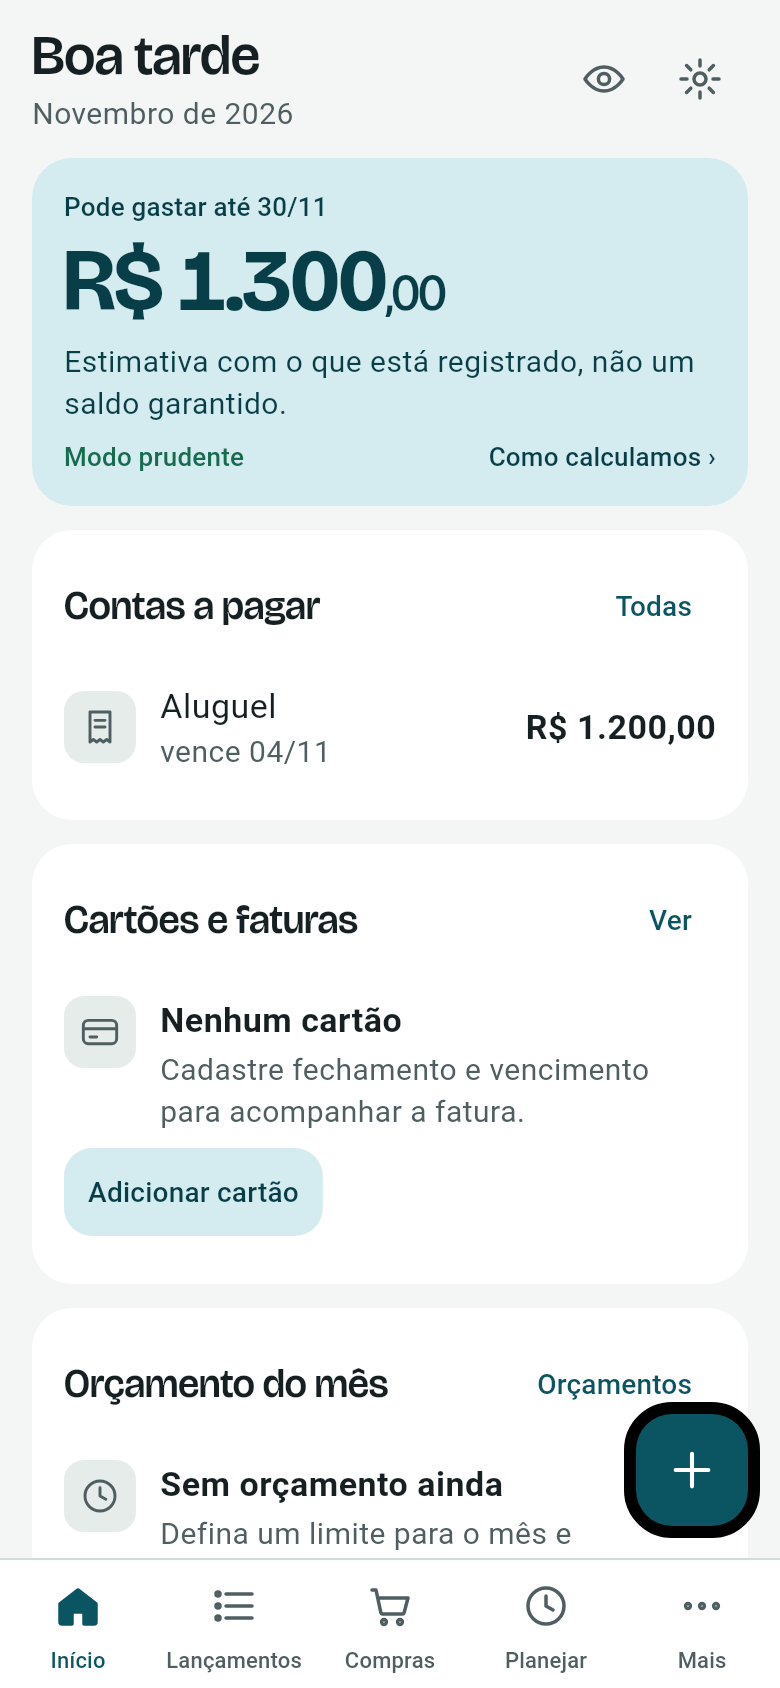
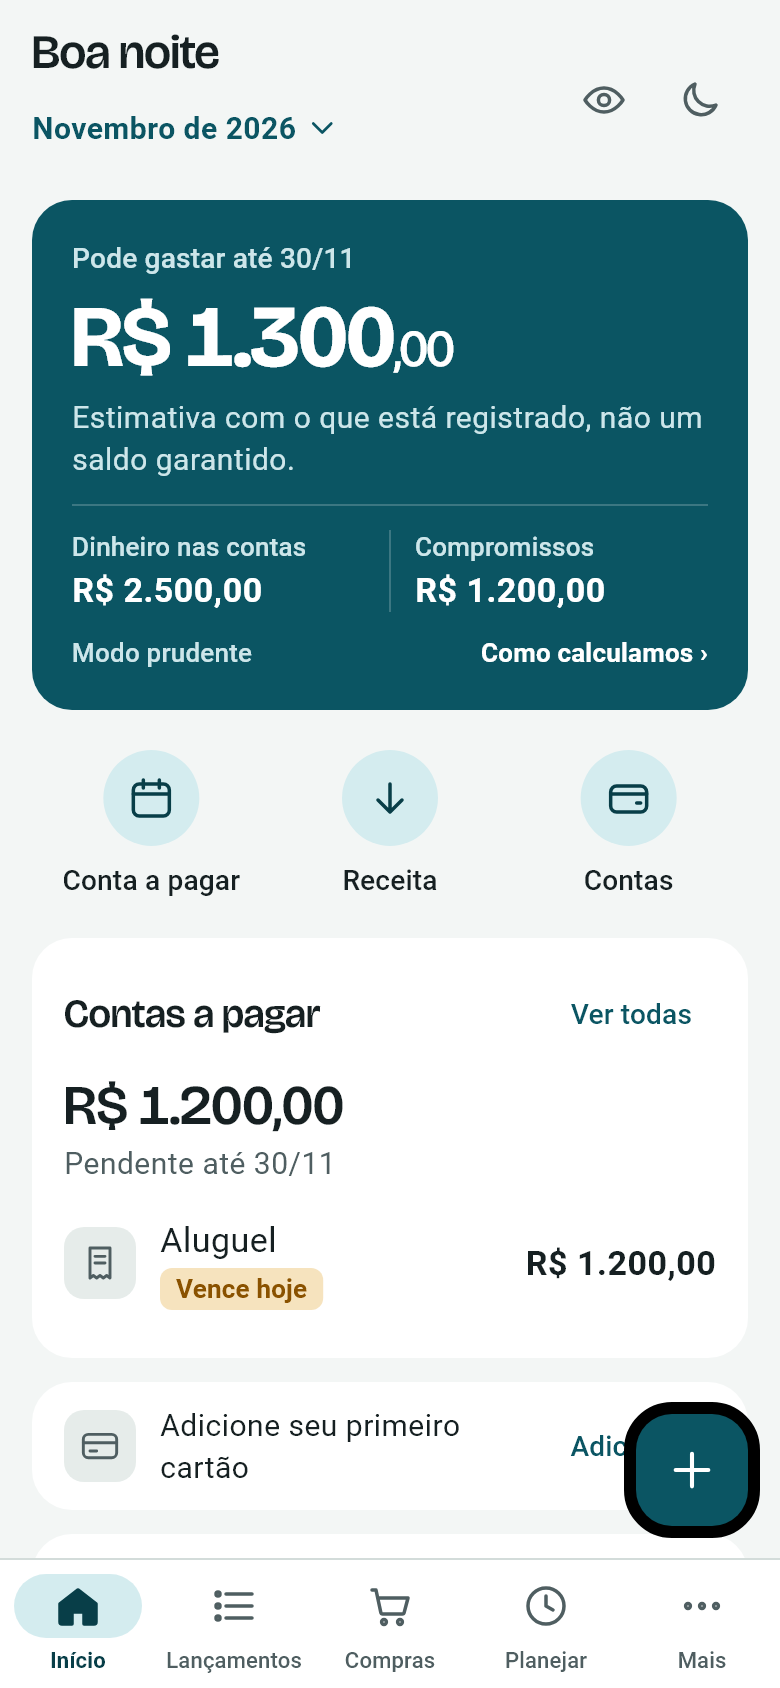
docs: homologação, tela inicial redesenhada e estado real do projeto
- 10-HOMOLOGACAO.md: roteiro no emulador, achados 1 a 11 e onde foram
  corrigidos, validação das notificações, itens não cobertos.
- DESIGN.md e 04-UI_DESIGN_SYSTEM.md: painel-resumo, ações rápidas,
  linha vazia, etiqueta de vencimento e barra inferior.
- 09-TESTES.md: 349 aprovados, 0 ignorados, 0 falhas.
- CHECKPOINT.md: homologação, correções, redesenho e pendências reais.
- Capturas regeneradas a partir da árvore de widgets real.

diff --git a/DESIGN.md b/DESIGN.md
@@ -173,7 +173,7 @@ Uma paleta de água e névoa ao amanhecer: fundo frio e claro, tinta grafite esv
 
 ### Primary
 - **Sereno** (#0B5563): única cor de ação. Botões primários, links, ícone ativo na barra de abas, preenchimento "dentro do ritmo", foco de teclado. 7,7:1 sobre Névoa. No tema escuro vira **Noite-sereno** (#6FC8D6), 9,6:1 sobre Noite.
-- **Sereno-claro** (#D4ECEF): container do primário: chips selecionados, botão secundário, fundo do cartão "pode gastar" quando positivo. Texto sobre ele sempre **Sereno-profundo** (#083E48), 9,5:1.
+- **Sereno-claro** (#D4ECEF): container do primário: chips selecionados, botão secundário, fundo dos ícones das ações rápidas e da aba ativa. Texto sobre ele sempre **Sereno-profundo** (#083E48), 9,5:1.
 
 ### Secondary
 - **Aurora** (#C0703E / escuro #F0B48A): a luz baixa do amanhecer. Só no símbolo, na marca de hoje e em ícones de destaque ≥ 24 px; nunca como texto (3,4:1 sobre Névoa é suficiente apenas para elementos gráficos).
@@ -259,9 +259,21 @@ Cantos arredondados contínuos: 6 px em chips pequenos e barras, 10 px em campos
 - **Money input:** teclado numérico, máscara pt-BR, centavos sempre visíveis, prefixo "R$" em Cinza-mar.
 
 ### Navigation
-- **Tab bar:** Branco, 56 px + safe area, 5 itens, ícone 24 px e rótulo 11 px; ativo Sereno com ícone preenchido.
+- **Tab bar:** Branco, 64 px + safe area, 5 itens, ícone 24 px e rótulo 11 px; a aba ativa ganha uma pílula Sereno-claro atrás do ícone, com ícone e rótulo em Sereno-profundo. Os rótulos acompanham a fonte do sistema só até o ponto em que "Lançamentos" ainda cabe sem quebrar.
 - **Headers:** iOS large title colapsável; Android top app bar Material 3. Voltar sempre do sistema.
 - **Sheets:** bottom sheet para tarefas curtas; tela cheia para fluxos longos (sessão de compras com câmera).
+
+### Painel-resumo "pode gastar" (tela inicial)
+Superfície sólida em **Sereno** (#0B5563; no escuro **Noite-sereno-container** #123F48), raio 20 px, texto Branco e texto de apoio tingido da própria cor (#CDE6EA), nunca cinza. Ordem: rótulo "Pode gastar até dd/mm", valor em Money Hero, uma linha de explicação, um fio e dois valores que explicam o número (**Dinheiro nas contas** e **Compromissos**), tirados das mesmas linhas da tela "Como calculamos"; rodapé com o modo (prudente/otimista) e "Como calculamos ›". O painel inteiro é tocável. Quando o valor é negativo o painel vira Coral-claro com texto Coral. Sem conta cadastrada o valor é desconhecido: o painel mostra "Configure seu saldo", uma frase e o botão "Adicionar conta", nunca R$ 0,00. Valores longos e fonte grande reduzem a escala em vez de cortar; em tela estreita ou fonte acima de 140% os dois valores empilham.
+
+### Ações rápidas (tela inicial)
+Até três atalhos logo abaixo do painel: ícone de 24 px em círculo Sereno-claro de 48 px e rótulo de até duas linhas. Complementam o botão flutuante "+" (que adiciona um lançamento) em vez de repeti-lo: "Conta a pagar", "Transferir" (ou "Receita" enquanto houver menos de duas contas) e "Contas".
+
+### Linha vazia
+Seção sem dados na tela inicial é uma linha só: ícone em quadro Bruma, o que falta ("Nenhuma conta prevista", "Adicione seu primeiro cartão") e uma ação ghost à direita. Evita empilhar cartões altos de instrução no primeiro acesso.
+
+### Vencimento
+Em listas de contas a pagar, "Atrasada desde dd/mm" (Coral sobre Coral-claro) e "Vence hoje"/"Vence amanhã" (Âmbar sobre Âmbar-claro) aparecem como etiqueta de raio 6 px; os demais vencimentos são texto Cinza-mar ("Vence em 3 dias", "Vence dd/mm"). Cor e texto sempre juntos.
 
 ### Barra de ritmo (componente-assinatura)
 Trilho Bruma de 12 px com raio 6 px; preenchimento Sereno (Coral ao ultrapassar 100%); **marca de hoje** em Aurora na posição esperada (dias decorridos ÷ dias do período, ou itens comprados ÷ itens da lista no carrinho). Legenda de três estados, sempre com ícone e texto: **sereno** (preenchimento ≤ marca), **atenção** (até 10% acima), **agitado** (acima disso). Usado em: orçamento por categoria, orçamento do mês, limite do cartão, meta/reserva, orçamento do carrinho.
@@ -272,7 +284,7 @@ Trilho Bruma de 12 px com raio 6 px; preenchimento Sereno (Coral ao ultrapassar 
 ## Do's and Don'ts
 
 ### Do:
-- **Do** colocar um único número-herói por tela, em Money Hero, com uma linha de explicação e um botão ghost "Como calculamos".
+- **Do** colocar um único número-herói por tela, em Money Hero, com uma linha de explicação e o acesso a "Como calculamos". Na tela inicial ele vive no painel-resumo em Sereno.
 - **Do** usar Névoa (#F3F6F5) como fundo e Branco (#FFFFFF) só em cartões e folhas; oferecer claro, escuro e automático.
 - **Do** desenhar ícones em traço 1,75 px com cantos arredondados, da biblioteca interna.
 - **Do** mostrar estados vazio, carregando e erro em todo widget, com uma ação útil no vazio.

diff --git a/docs/flutter-migration/04-UI_DESIGN_SYSTEM.md b/docs/flutter-migration/04-UI_DESIGN_SYSTEM.md
@@ -18,8 +18,28 @@ Fonte normativa: `DESIGN.md` (SerenaCash, "Água parada ao amanhecer"). Implemen
 - `Money`: centavos inteiros, sinal explícito, Regra do Sinal, modo privacidade (`R$ ••••`), rótulo falado por extenso; hero com centavos a 60 %.
 - `RhythmBar`: trilho 12 px + preenchimento + **marca de hoje** (onda 12×6 em aurora sobre linha de 2 px), estados sereno/atenção/agitado, texto "% acima do limite".
 - `SCard`/`CardHeader`: branco sobre névoa, raio 20, sem sombra, cabeçalho título + ação ghost.
-- `SButton` (primário/secundário/ghost/destrutivo, 52/44 px, loading mantém largura), `SChip`/`ChipSelect`/`Segmented`, `ListRow` (56 px), `EmptyState` com ação, `STextField`, `MoneyField` (máscara pt-BR, prefixo R$, centavos sempre visíveis), `DateField` (hoje/ontem/amanhã + dd/mm/aaaa), `ToggleRow`, `Collapsible`, `confirmSheet` (folha para ações destrutivas), `SScreen`/`StackScreen`/`SheetHeader`, `AddFab`.
+- `SButton` (primário/secundário/ghost/destrutivo, 52/44 px, loading mantém largura), `SChip`/`ChipSelect`/`Segmented`, `ListRow` (56 px; o valor à direita encolhe em vez de estourar), `EmptyState` com ação, `EmptyRow` (estado vazio de uma linha), `STextField`, `SecretField` (PIN e senhas ocultos, com botão para mostrar), `MoneyField` (máscara pt-BR, prefixo R$, centavos sempre visíveis), `DateField` (hoje/ontem/amanhã + dd/mm/aaaa), `ToggleRow`, `Collapsible`, `confirmSheet` (folha para ações destrutivas), `SScreen`/`StackScreen`/`SheetHeader`, `AddFab`.
 - Ícones: `SIcon` desenha o conjunto próprio (traço 1,75 px, grade 24) a partir dos paths SVG da marca; nunca emoji.
+
+## Tela inicial (redesenho de 05/11/2026)
+
+Composição em `lib/features/home/`:
+
+| Bloco | Onde | Dados |
+|---|---|---|
+| Cabeçalho compacto: saudação por horário e período como controle discreto (abre "Personalizar tela inicial", onde ficam período e contas consideradas); ações de ocultar valores e alternar tema claro/escuro | `HomeHeader` em `home_parts.dart`, `home_screen.dart` | `greetingFor`, `layout.period`, `prefs.privacyMode`, `prefs.theme` |
+| Painel-resumo "pode gastar" com os dois valores que o explicam | `SummaryPanel` | `Availability` (`availableCents`, `lines`, `status`, `mode`); "Dinheiro nas contas" é a linha `balances`, "Compromissos" é a soma das linhas de sinal negativo. Nenhum cálculo novo |
+| Primeiro acesso (sem conta) | `SummaryPanel` | `availability.hasAccounts == false` mostra "Configure seu saldo" e "Adicionar conta"; não exibe valor |
+| Ações rápidas | `QuickActions` | rotas existentes: `/transaction?kind=expense&planned=1`, `/transaction?kind=transfer` ou `kind=income`, `/accounts` |
+| Contas a pagar: total pendente, atrasadas primeiro, vencimento em palavras | caso `bills_to_pay` em `widgets.dart`, `DueBadge`, `dueLabel` | `data.overdue`, `data.bills`, `pendingCents` |
+| Cartões e faturas: cartão, fatura, vencimento, fechamento e limite livre; até 2 cartões e "Mais N cartões" | `_CardInvoice` | `data.cards` (`Invoice`, `CardCommitment`) |
+| Últimos lançamentos: o que já aconteceu (previstos futuros ficam em "Contas a pagar") | caso `recent_transactions` | `data.recent` |
+| Seções vazias em uma linha | `EmptyRow` | — |
+| Carregando | `HomeSkeleton` (blocos estáticos) | `dashboardDataProvider == null` |
+
+A personalização continua valendo: ordem, visibilidade, modelos, período e contas consideradas vêm de `DashboardLayout`. As ações rápidas aparecem logo abaixo do painel "pode gastar" (ou no topo, se ele estiver oculto) e o atalho "Personalizar tela inicial" fica no fim da lista. Tokens novos em `SerenaColors`: `hero`, `onHero`, `onHeroMuted`, `heroDivider`; `Touch.target` (48 dp). Barra inferior: pílula `primaryContainer` na aba ativa (`navigationBarTheme`).
+
+Capturas (`screenshots/`): `home_first_access_light`, `home_no_movements_light`, `home_data_light`, `home_data_dark`, `home_data_hidden_light`, `home_data_narrow_large_text(_top)`. Os dados de demonstração existem só em `test/app/home_redesign_test.dart`, em banco em memória.
 
 ## Navegação
 
@@ -28,7 +48,7 @@ GoRouter com `StatefulShellRoute.indexedStack`: Início, Lançamentos, Compras, 
 ## Acessibilidade
 
 - Toda ação tem rótulo (`tooltip`/`Semantics`); valores têm leitura por extenso; barra de ritmo expõe valor e rótulo.
-- Alvos ≥ 44 px; contraste conforme tabela do DESIGN.md (checagem no pipeline RN mantida em `docs/qa`).
+- Alvos ≥ 44 px (48 dp nos botões de ícone, ações rápidas e cores de conta); contraste conforme tabela do DESIGN.md (checagem no pipeline RN mantida em `docs/qa`).
 - Dynamic Type: estilos sem tamanhos fixos em px além da escala; `MediaQuery` respeitado por `Text`.
 - `Reduce motion`: transições são curtas; nenhuma animação decorativa.
 

diff --git a/docs/flutter-migration/09-TESTES.md b/docs/flutter-migration/09-TESTES.md
@@ -6,18 +6,18 @@ Suíte: `apps/serenacash_flutter/test` + fixtures TS→Dart em `docs/flutter-mig
 
 | Resultado | Qtde |
 |---|---|
-| Aprovados | 342 |
+| Aprovados | 349 |
 | Ignorados (`skip`) | 0 |
 | Com falha | 0 |
-| **Total executado** | **342** |
+| **Total executado** | **349** |
 
-Comando: `flutter test` em `apps/serenacash_flutter` (saída final `+342: All tests passed!`). As referências antigas a 317 e 320 testes ficaram desatualizadas; o número cresceu com os testes de PIN, lembretes, backup de Compras e regressões da homologação.
+Comando: `flutter test` em `apps/serenacash_flutter` (saída final `+349: All tests passed!`). As referências antigas a 317 e 320 testes ficaram desatualizadas; o número cresceu com os testes de PIN, lembretes, backup de Compras, regressões da homologação e da nova tela inicial.
 
 | Camada | Local | O que cobre | Aprovados | Ignorados | Falhas |
 |---|---|---|---|---|---|
 | Domínio (equivalência e regras) | `test/domain/*` | 22 fixtures / 272 casos TS reproduzidos sem divergência monetária + invariantes (estorno, erros, arredondamento); `regressions_test.dart`: resultado do dia do calendário, ranking do ano limitado ao mês corrente, saudação por horário, plurais e rótulos do resumo de importação | 288 | 0 | 0 |
 | Persistência e segurança | `test/data/*` | esquema/índices/FK/CHECK, round-trip, idempotência, exclusão lógica, anexos com hash, stream, prefs, compras, SQLCipher (chave errada falha, arquivo não é SQLite em claro), PIN Argon2id, backup AES-GCM (adulteração), serviço de backup (v1, cifrado, legado, erros sem efeito), mapeamento RevenueCat; `backup_shopping_test.dart`: Compras no backup (ida e volta, substituição, backup antigo sem Compras, seção malformada aborta) | 33 | 0 | 0 |
-| App (widget/fluxo) | `test/app/*` | app real com banco em memória: onboarding → pode gastar → lançamento → lista → tema escuro; 24 widgets; privacidade; contas → cartão → compra parcelada → fatura; orçamento/meta/empréstimo/relatórios; lista → sessão → confirmação de finalização → despesa; leitura simulada de código/etiqueta; histórico e anual; `pin_lock_test.dart` (definir PIN, tela de bloqueio, PIN errado e depois o correto); `reminders_host_test.dart` (toque no lembrete com app aberto e em abertura a frio, lançamento inexistente, reagendamento); `regressions_flow_test.dart` (um único aviso de desfazer, "Cancelar" sem corte, cores com nome, senha oculta) | 18 | 0 | 0 |
+| App (widget/fluxo) | `test/app/*` | app real com banco em memória: onboarding → pode gastar → lançamento → lista → tema escuro; 24 widgets; privacidade; contas → cartão → compra parcelada → fatura; orçamento/meta/empréstimo/relatórios; lista → sessão → confirmação de finalização → despesa; leitura simulada de código/etiqueta; histórico e anual; `pin_lock_test.dart` (definir PIN, tela de bloqueio, PIN errado e depois o correto); `reminders_host_test.dart` (toque no lembrete com app aberto e em abertura a frio, lançamento inexistente, reagendamento); `regressions_flow_test.dart` (um único aviso de desfazer, "Cancelar" sem corte, cores com nome, senha oculta); `home_redesign_test.dart` (tela inicial: primeiro acesso sem valor inventado, conta sem movimentações, estado com dados, claro/escuro, valores ocultos, ações rápidas e período, tela estreita com fonte a 200%) | 25 | 0 | 0 |
 | Performance | `test/perf/perf_test.dart` | painel com 5.000 lançamentos, busca, banco | 3 | 0 | 0 |
 
 ## Gates (todos sem `|| true`)
@@ -34,7 +34,7 @@ dart run build_runner build --delete-conflicting-outputs && flutter gen-l10n
 dart format --set-exit-if-changed lib test && flutter analyze --fatal-infos && flutter test
 ```
 
-Resultado em 05/11/2026: `dart format` → 146 arquivos, 0 alterações; `flutter analyze --fatal-infos` → 0 issues; `flutter test` → 342 aprovados, 0 ignorados, 0 falhas.
+Resultado em 05/11/2026: `dart format` → 148 arquivos, 0 alterações; `flutter analyze --fatal-infos` → 0 issues; `flutter test` → 349 aprovados, 0 ignorados, 0 falhas.
 
 ## Capturas de tela
 

diff --git a/docs/flutter-migration/10-HOMOLOGACAO.md b/docs/flutter-migration/10-HOMOLOGACAO.md
@@ -1,0 +1,53 @@
+# 10 — Homologação do app Flutter no emulador
+
+Registro da homologação feita em 04 e 05/11/2026 no emulador `serenacash_api35` (Pixel 7, Android 15, API 35), com dados fictícios. O checklist-base foi a seção 6 de `docs/13-guia-teste-dispositivo.md` (escrito para o app React Native), adaptado ao Flutter.
+
+## Como repetir
+
+Com o emulador aberto, em `apps/serenacash_flutter`:
+
+```bash
+flutter run -d emulator-5554
+```
+
+```bash
+flutter test integration_test -d emulator-5554
+```
+
+Observações de ambiente (Windows):
+
+- A partir de um shell em que o Gradle falhe com `Unable to establish loopback connection`, defina só para o processo `JAVA_TOOL_OPTIONS=-Djdk.net.unixdomain.tmpdir=<pasta gravável>`.
+- O `integration_test` é instável nesse emulador (a conexão adb reinicia quando a ferramenta se conecta): repita com limite de tempo. Ele pula o onboarding quando o app já tem dados; apague os dados antes (`adb shell pm clear br.com.serenacash.mobile`).
+- Capturas: `adb exec-out screencap -p > arquivo.png` em um shell POSIX (no PowerShell 5.1 o redirecionamento corrompe o PNG).
+- O emulador usado está em fuso GMT; à noite a data do app fica um dia à frente da do PC.
+
+## Resultado
+
+Roteiro percorrido: onboarding, bloqueio por PIN, lançamentos (despesa, receita prevista, parcial, série, exclusão com desfazer, transferência), cartões e fatura, orçamento, meta, relatórios, calendário, projeções, lista e sessão de compras, exportação e restauração de backup, configurações, notificações. O app não caiu nem travou e todos os valores conferiram com a conta manual.
+
+| # | Achado | Situação | Onde foi corrigido |
+|---|---|---|---|
+| 1 | Build release falhava no R8 (classes opcionais do ML Kit) | Corrigido | `android/app/proguard-rules.pro`, `build.gradle.kts` |
+| 2 | Lembretes agendados sem receptor no manifest; toque não abria o lançamento; só agendava ao tocar em "Ativar lembretes" | Corrigido e validado com notificação real | `AndroidManifest.xml`, `bill_reminders.dart`, `app/reminders_host.dart` |
+| 3 | Tela vermelha ao definir o PIN em debug (controller descartado cedo) | Corrigido | `settings_screen.dart` |
+| 4 | Depois de um PIN errado o correto não entrava (campo sem `Overlay`) | Corrigido | `lock_gate.dart` |
+| 5 | Cadeado gigante na tela de bloqueio | Corrigido | `lock_gate.dart` |
+| 6 | Aviso de "Desfazer" duplicado | Corrigido | `router.dart` (um `UndoHost` no shell) |
+| 7 | "Total do dia" do calendário somava o que só move dinheiro | Corrigido | `ledger.dart` (`resultCents`), `calendar_screen.dart` |
+| 8 | Backup sem os dados de Compras (herdado do formato v1 do app RN) | Corrigido com chave de extensão `shopping` | `backup_service.dart` |
+| 9 | PIN e senhas de backup em texto claro | Corrigido | `SecretField` em `fields.dart` |
+| 10 | "Finalizar compra" sem confirmação | Corrigido | `session_screen.dart` |
+| 11 | Textos e acabamento ("Cance…", plurais, resumo em inglês, saudação, melhor mês futuro, ícone padrão do Flutter, cores lidas como código) | Corrigido (iOS: ícone e abertura não alterados) | `screen.dart`, ARB, `format.dart`, `reports.dart`, `android/.../res` |
+
+## Notificações (validado em 05/11/2026)
+
+Com o relógio do emulador adiantado temporariamente e depois restaurado:
+
+- Os lembretes "vence amanhã" e "vence hoje" foram exibidos de fato. Os alarmes são inexatos: o Android pode entregar até 1 hora depois das 09:00.
+- Tocar na notificação abriu o lançamento correto com o app aberto, em segundo plano e encerrado (abertura a frio).
+- Com duas ou mais notificações o Android as agrupa; tocar no cabeçalho do grupo abre o app pela tela inicial (comportamento do sistema).
+- Contas criadas depois de ativar os lembretes são agendadas sozinhas.
+
+## Não coberto
+
+Biometria (emulador sem biometria), leitura real de código de barras e OCR de etiqueta, compras em sandbox e restauração de compras, importação de CSV e OFX, TalkBack ligado, aparelho físico e iOS.

diff --git a/docs/flutter-migration/CHECKPOINT.md b/docs/flutter-migration/CHECKPOINT.md
@@ -41,7 +41,25 @@ issues, `dart format` sem alterações. Detalhes e divergências em `02-EQUIVALE
 - Docs 04, 07–12, RELATORIO_FINAL e auditoria consolidada.
 - Bloqueios: APK (sem Android SDK: `dl.google.com` 403), iOS (sem macOS), aparelho (câmera/OCR/biometria/compras).
 
+## Homologação no emulador e correções (04–05/11/2026)
+- Ambiente Windows preparado (`13-SETUP_WINDOWS.md`); APK debug e release compilam localmente; emulador `serenacash_api35` (Android 15).
+- Homologação percorrida no emulador com dados fictícios: `10-HOMOLOGACAO.md`. Os 11 achados foram corrigidos (release/R8, receptores e toque das notificações, PIN, desfazer, calendário, backup com Compras, segredos ocultos, confirmação ao finalizar compra, textos, ícone e abertura com a marca no Android).
+- Notificação real exibida e toque validado com o app aberto, em segundo plano e encerrado.
+- Lembretes reagendam sozinhos quando o livro muda (paridade com o RN).
+- `integration_test` passou no emulador; a ferramenta é instável ali (conexão adb), repetir com limite de tempo.
+
+## Redesenho da tela inicial (05/11/2026)
+- Cabeçalho compacto (saudação, período como controle, ocultar valores, alternar tema), painel-resumo "pode gastar" em azul-petróleo com "Dinheiro nas contas" e "Compromissos", ações rápidas, "Contas a pagar" com total e vencimentos em palavras, "Cartões e faturas", "Últimos lançamentos", estados vazios de uma linha e primeiro acesso sem valor inventado. Detalhes em `04-UI_DESIGN_SYSTEM.md` e `DESIGN.md`.
+- Personalização da tela inicial (ordem, visibilidade, modelos, período, contas) preservada; nenhuma regra financeira alterada.
+- Gates: `dart format` 0 alterações, `flutter analyze --fatal-infos` 0 issues, `flutter test` 349 aprovados, 0 ignorados, 0 falhas (`09-TESTES.md`).
+
+## Pendências reais
+- iOS: sem macOS neste ambiente; ícone e abertura com a marca só foram feitos no Android.
+- Aparelho físico: câmera/OCR, biometria e compras em sandbox continuam sem validação.
+- Lojas/RevenueCat, assinatura de release e política de privacidade publicada dependem do cliente.
+- Lembretes usam alarmes inexatos (podem atrasar até 1 h); alarmes exatos exigem permissão sujeita à política da loja.
+
 ## Próximos passos
-1. Executar o CI (APK) e validar em aparelho conforme `docs/13-guia-teste-dispositivo.md`.
+1. Validar em aparelho físico os itens de `10-HOMOLOGACAO.md` em "Não coberto".
 2. Configurar lojas/RevenueCat (ação do cliente) e assinar release.
 3. Após paridade validada em aparelho, decidir remoção do código RN.
